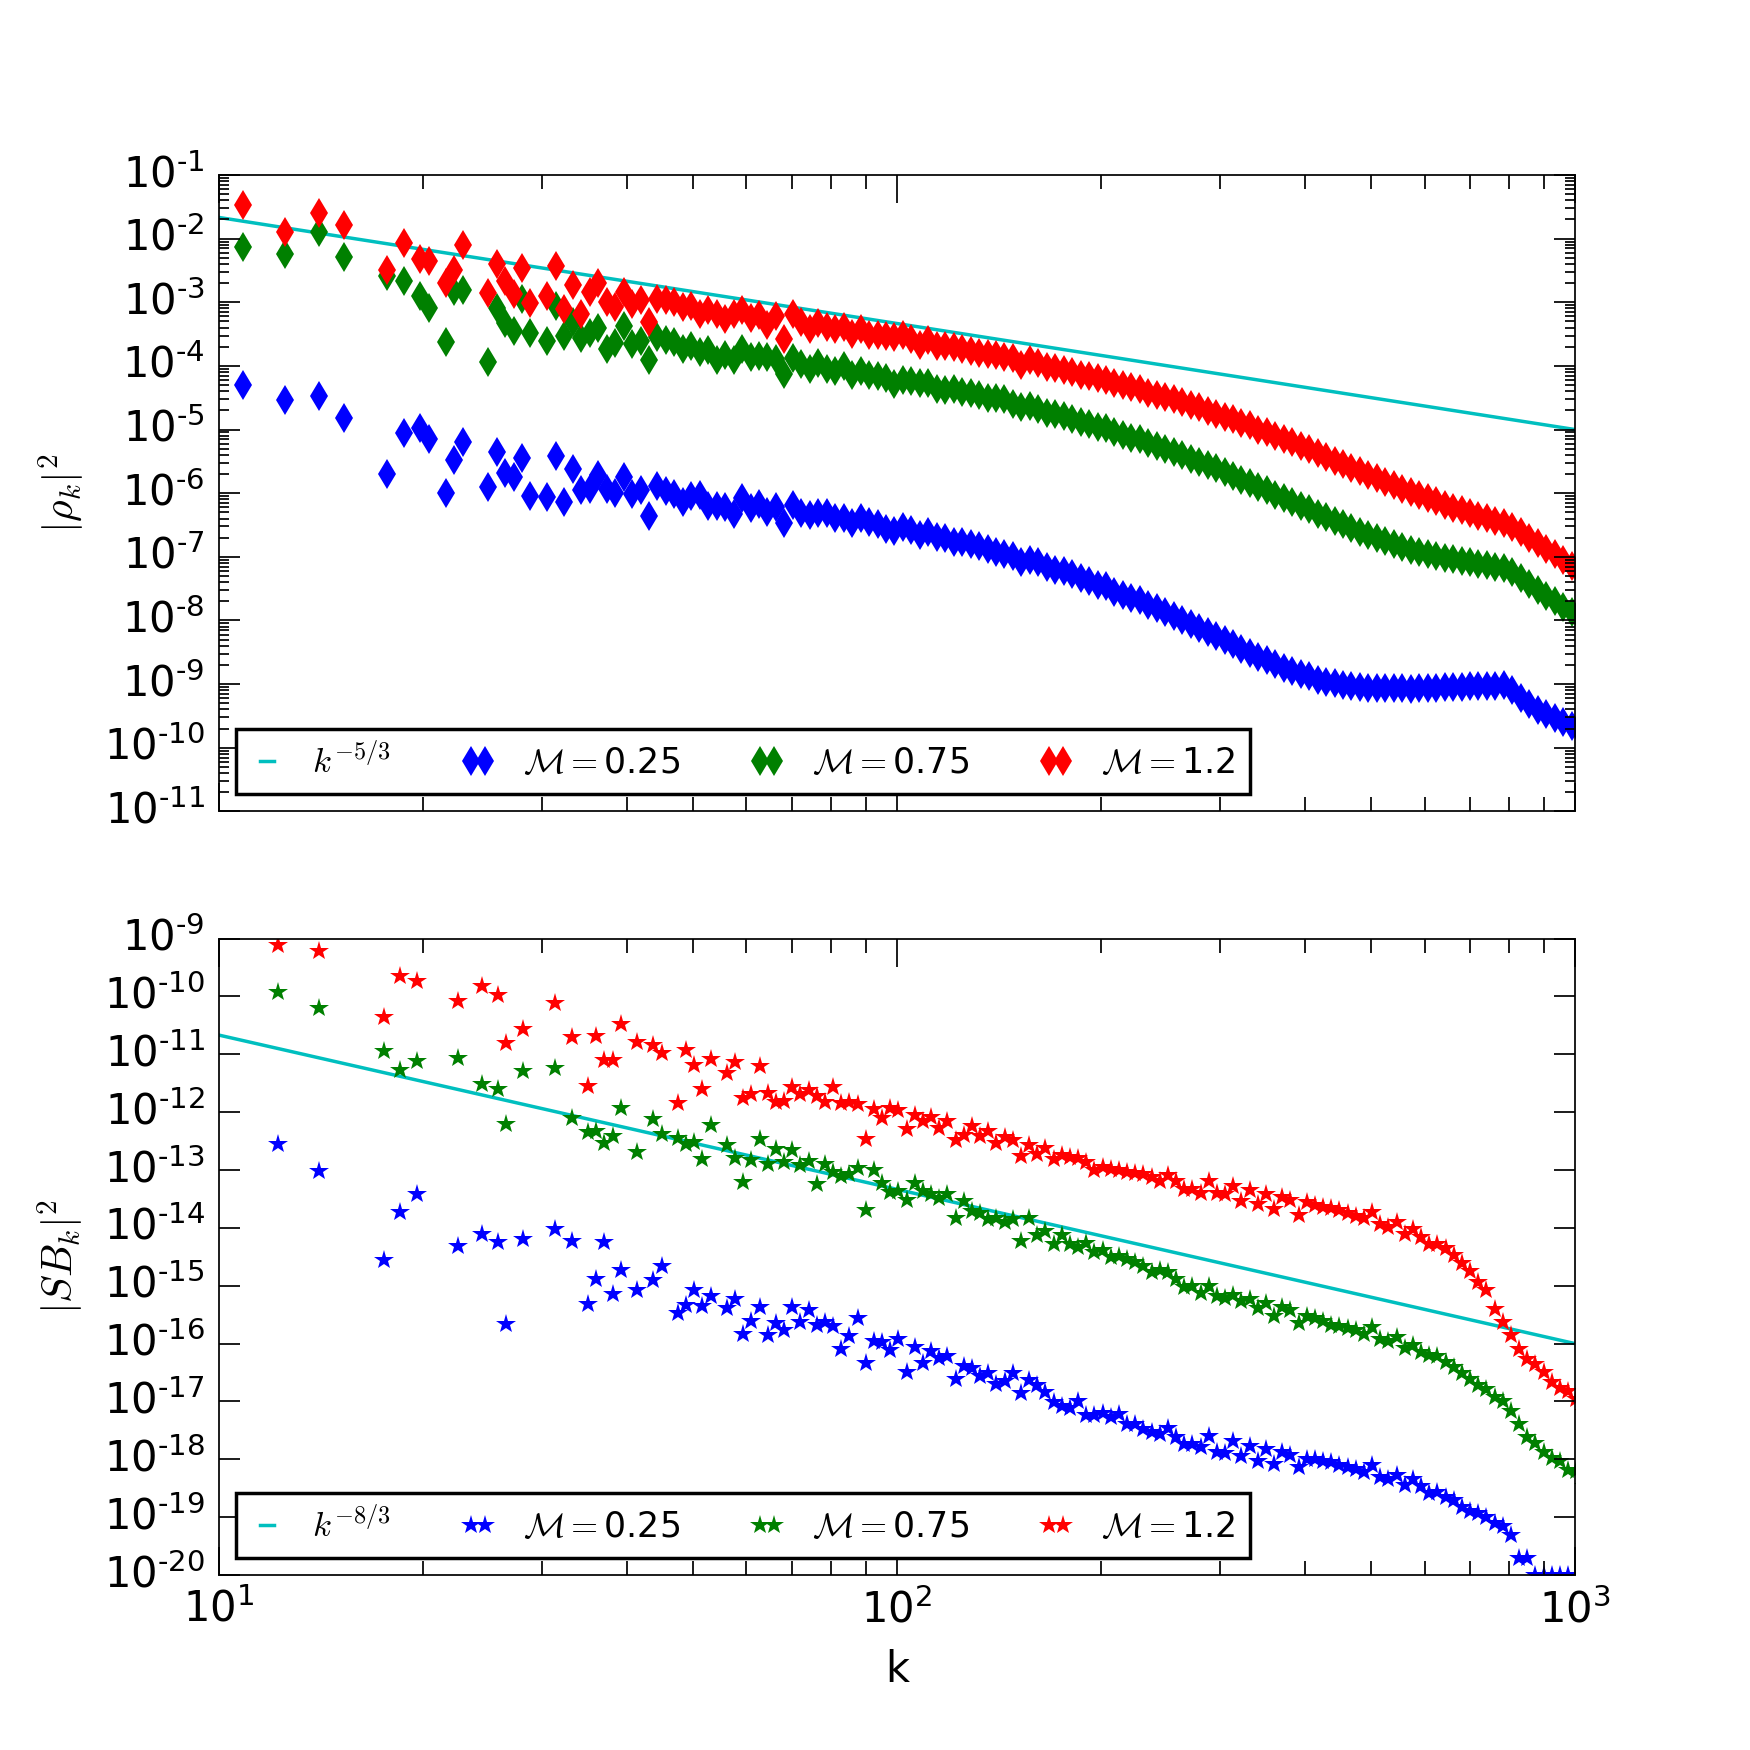
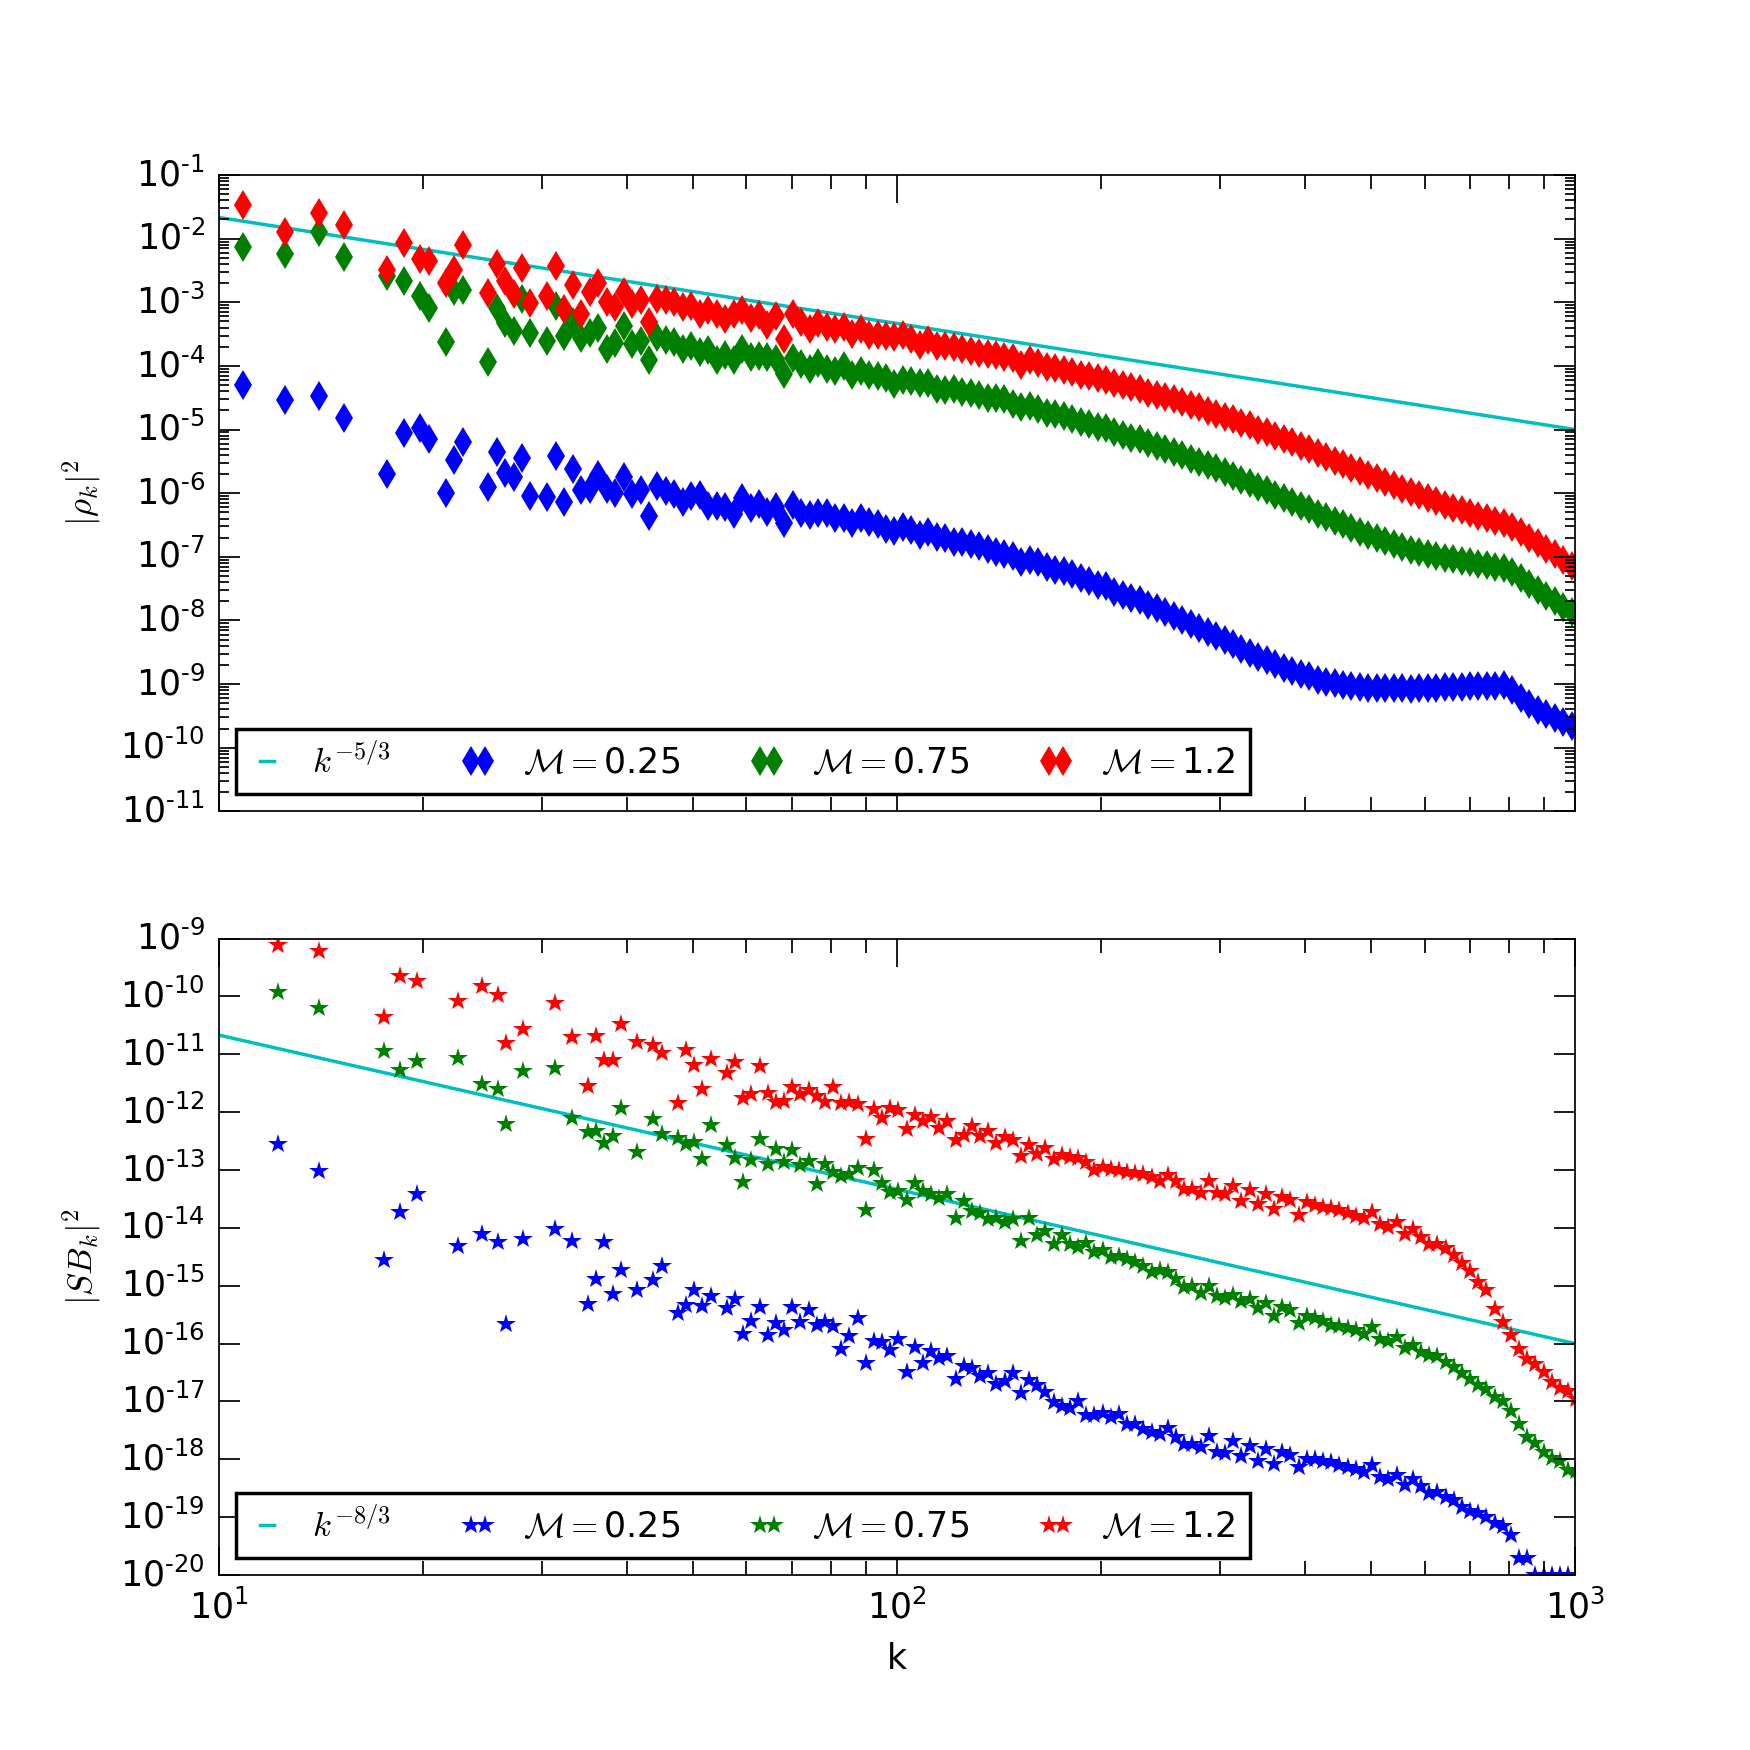
Edited plots

diff --git a/surface_brightness/sb_mach.py b/surface_brightness/sb_mach.py
@@ -8,6 +8,7 @@ import pylab as plot
 plt.style.use('classic')
 params = {'legend.fontsize':10.,
           'legend.handlelength': 1.0}
+plt.rcParams.update({'font.size': 10})
 plt.rcParams['axes.linewidth'] = .5
 plt.rcParams['xtick.major.size'] = 8
 plt.rcParams['xtick.minor.size'] = 4
